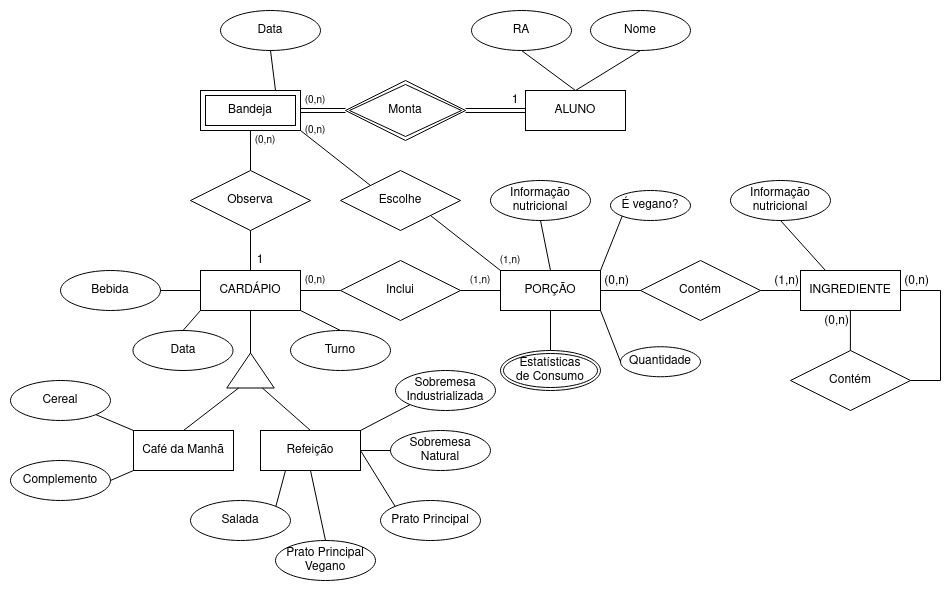
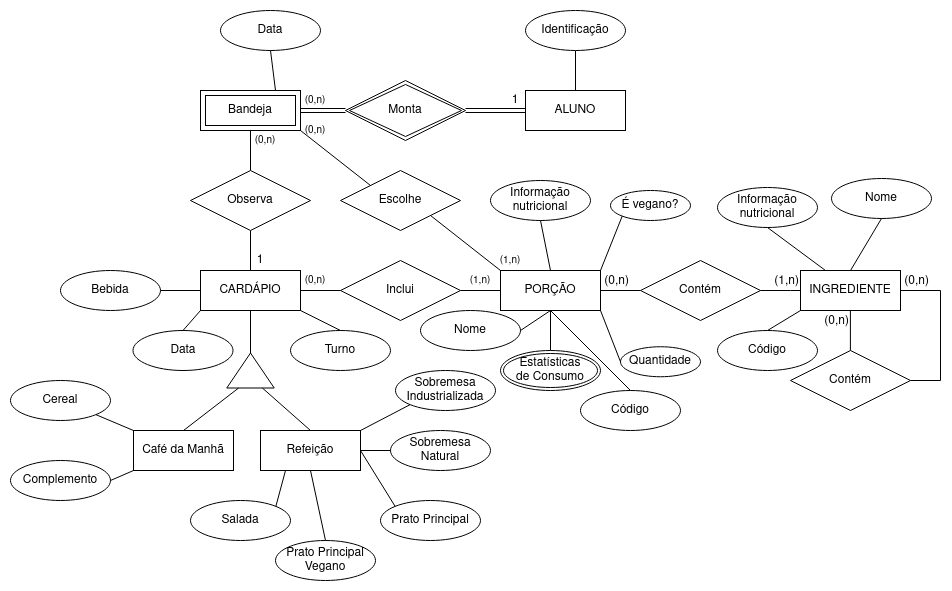
pronto para revisao pt.2

diff --git a/lab03/README.md b/lab03/README.md
@@ -20,15 +20,14 @@ BANDEJA(_Aluno_, _Data_, _Turno_, Porções)
   Data chave estrangeira -> CARDÁPIO(Data)
   Turno chave estrangeira -> CARDÁPIO(Turno)
 
-CARDÁPIO(_Data_, _Turno_)
+CARDÁPIO(_Data_, _Turno_, Bebida)
+  Bebida chave estrangeira -> Porção(Nome)
 
 CAFÉ_DA MANHA(_Data_, _Turno_, Bebida, Cereal, Complemento)
-  Bebida chave estrangeira -> PORÇÃO(Nome)
   Cereal chave estrangeira -> PORÇÃO(Nome)
-  COmplemento chave estrangeira -> PORÇÃO(Nome)
+  Complemento chave estrangeira -> PORÇÃO(Nome)
 
 REFEIÇÃO(_Data_, _Turno_, Bebida, Salada, Prato Principal Vegano, Prato Principal, Sobremesa Natural, Sobremesa Industrializada)
-  Bebida chave estrangeira -> PORÇÃO(Nome)
   Salada chave estrangeira -> PORÇÃO(Nome)
   Prato Principal Vegano chave estrangeira -> PORÇÃO(Nome)
   Prato Principal chave estrangeira -> PORÇÃO(Nome)
